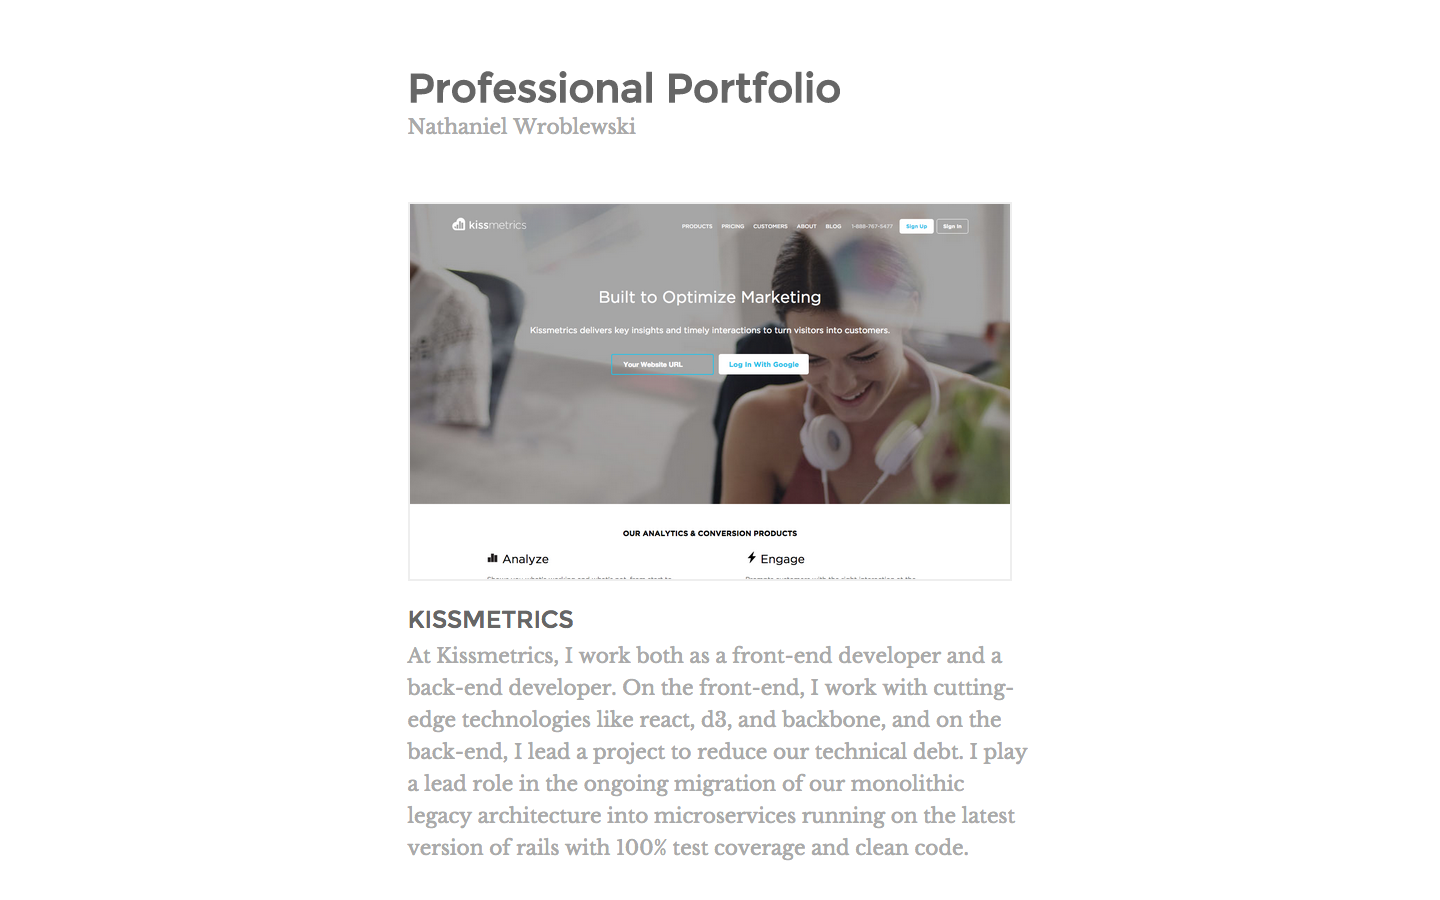
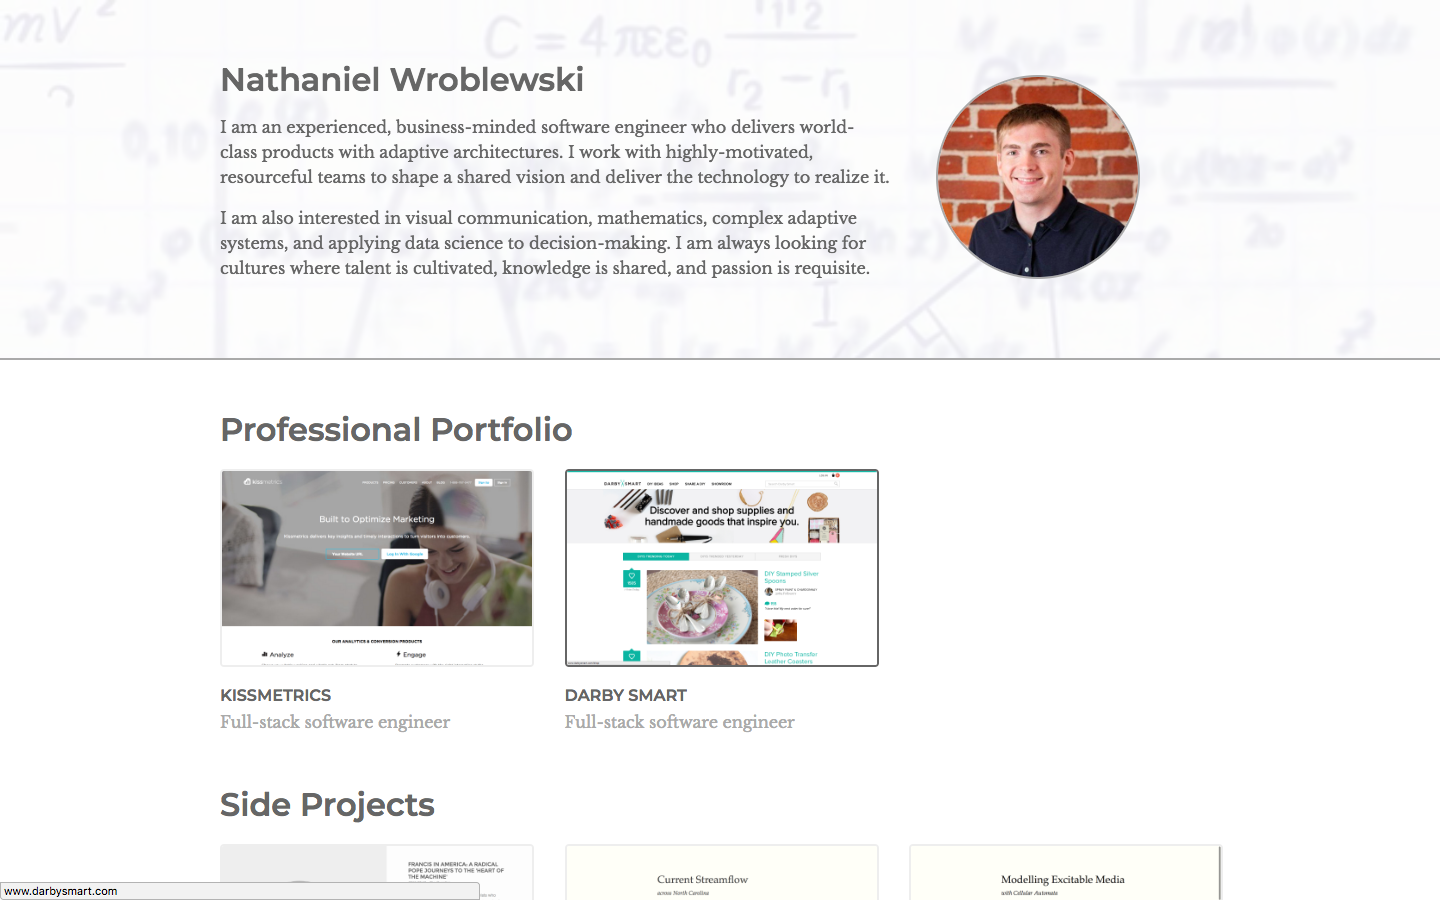
Add climate visualization

Changed region(s): [[0.0, 0.0622, 0.8125, 1.0], [0.6875, 0.9644, 0.7812, 0.9956]]

diff --git a/index.html b/index.html
@@ -93,12 +93,12 @@
           </p>
         </li>
         <li class="site">
-          <a class="link" href="//nathanielwroblewski.github.io/majority-classification">
-            <img class="screencap" src="/public/images/majority-classification.png" />
+          <a class="link" href="//nathanielwroblewski.github.io/climates">
+            <img class="screencap" src="/public/images/climate.png" />
           </a>
-          <p class="caption-title">Majority Classification</p>
+          <p class="caption-title">Visualizing Climates</p>
           <p class="caption">
-            Cellular automaton majority voting
+            Exploratory data analysis of NOAA climate data
           </p>
         </li>
         <li class="site">
@@ -126,6 +126,15 @@
           <p class="caption-title">DLA</p>
           <p class="caption">
             Javascript implementation of diffusion-limited aggregation
+          </p>
+        </li>
+        <li class="site">
+          <a class="link" href="//nathanielwroblewski.github.io/majority-classification">
+            <img class="screencap" src="/public/images/majority-classification.png" />
+          </a>
+          <p class="caption-title">Majority Classification</p>
+          <p class="caption">
+            Cellular automaton majority voting
           </p>
         </li>
         <li class="site">
